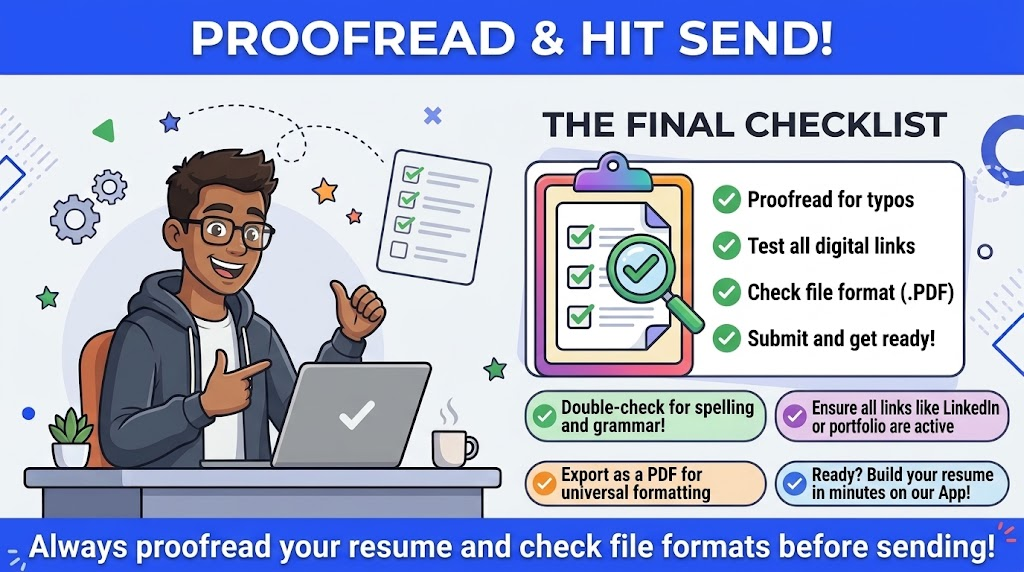
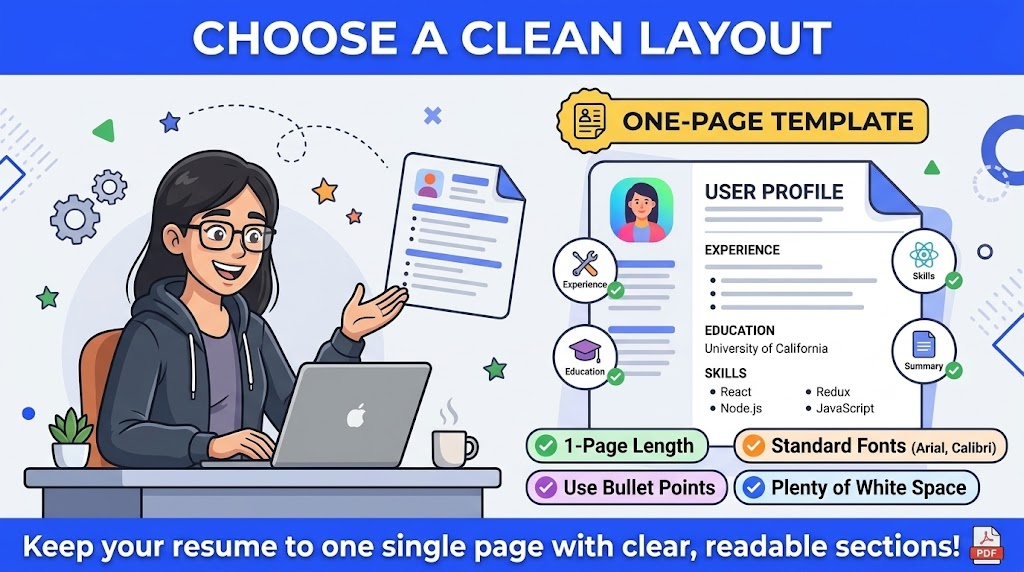
carousel

diff --git a/src/components/common/Carousel.tsx b/src/components/common/Carousel.tsx
@@ -1,11 +1,153 @@
-import { Text, View } from "react-native";
+import { colors } from "@/styles";
+import { useCallback, useEffect, useMemo, useRef, useState } from "react";
+import {
+  Animated,
+  Dimensions,
+  Image,
+  ImageSourcePropType,
+  NativeScrollEvent,
+  NativeSyntheticEvent,
+  ScrollView,
+  TouchableOpacity,
+  View,
+} from "react-native";
 
-const Carousel = () => {
+const { width } = Dimensions.get("window");
+const CARD_W = width - 32;
+const CARD_H = Math.round(CARD_W / 1.8);
+
+interface CarouselItem {
+  id: string;
+  image: ImageSourcePropType;
+}
+
+const ITEMS: CarouselItem[] = [
+  { id: "1", image: require("../../../assets/carousel/1.jpeg") },
+  { id: "2", image: require("../../../assets/carousel/2.jpeg") },
+  { id: "3", image: require("../../../assets/carousel/3.jpeg") },
+  { id: "4", image: require("../../../assets/carousel/4.jpeg") },
+  { id: "5", image: require("../../../assets/carousel/5.jpeg") },
+  { id: "6", image: require("../../../assets/carousel/6.jpeg") },
+];
+
+export default function Carousel() {
+  const [activeIndex, setActiveIndex] = useState(0);
+  const [scrollX] = useState(() => new Animated.Value(0));
+  const scrollRef = useRef<ScrollView>(null);
+  const timerRef = useRef<ReturnType<typeof setInterval> | null>(null);
+  const touching = useRef(false);
+  const activeIndexRef = useRef(0);
+
+  // Memoized so Animated.event is created once — fixes react-hooks/refs lint error
+  const onScroll = useMemo(
+    () =>
+      Animated.event([{ nativeEvent: { contentOffset: { x: scrollX } } }], {
+        useNativeDriver: true,
+      }),
+    [scrollX],
+  );
+
+  // Index tracking on JS side — fired only at scroll end, not every frame
+  const handleScrollEnd = useCallback((e: NativeSyntheticEvent<NativeScrollEvent>) => {
+    const idx = Math.round(e.nativeEvent.contentOffset.x / CARD_W);
+    if (idx !== activeIndexRef.current && idx >= 0 && idx < ITEMS.length) {
+      activeIndexRef.current = idx;
+      setActiveIndex(idx);
+    }
+  }, []);
+
+  const stopAutoPlay = useCallback(() => {
+    if (timerRef.current) {
+      clearInterval(timerRef.current);
+      timerRef.current = null;
+    }
+  }, []);
+
+  const startAutoPlay = useCallback(() => {
+    stopAutoPlay();
+    timerRef.current = setInterval(() => {
+      if (touching.current) return;
+      const next = (activeIndexRef.current + 1) % ITEMS.length;
+      (scrollRef.current as any)?.scrollTo({ x: next * CARD_W, animated: true });
+      activeIndexRef.current = next;
+      setActiveIndex(next);
+    }, 3000);
+  }, [stopAutoPlay]);
+
+  useEffect(() => {
+    startAutoPlay();
+    return stopAutoPlay;
+  }, [startAutoPlay, stopAutoPlay]);
+
   return (
-    <View>
-      <Text>Carousel</Text>
+    <View style={{ height: CARD_H }}>
+      <Animated.ScrollView
+        ref={scrollRef as any}
+        horizontal
+        pagingEnabled
+        showsHorizontalScrollIndicator={false}
+        decelerationRate="fast"
+        snapToInterval={CARD_W}
+        snapToAlignment="start"
+        bounces={false}
+        scrollEventThrottle={16}
+        onScroll={onScroll}
+        onScrollEndDrag={handleScrollEnd}
+        onMomentumScrollEnd={handleScrollEnd}
+        onTouchStart={() => {
+          touching.current = true;
+          stopAutoPlay();
+        }}
+        onTouchEnd={() => {
+          touching.current = false;
+          startAutoPlay();
+        }}
+      >
+        {ITEMS.map((item, i) => {
+          const inputRange = [(i - 1) * CARD_W, i * CARD_W, (i + 1) * CARD_W];
+          const scale = scrollX.interpolate({
+            inputRange,
+            outputRange: [0.94, 1, 0.94],
+            extrapolate: "clamp",
+          });
+          const opacity = scrollX.interpolate({
+            inputRange,
+            outputRange: [0.65, 1, 0.65],
+            extrapolate: "clamp",
+          });
+
+          return (
+            <Animated.View
+              key={item.id}
+              style={{ width: CARD_W, height: CARD_H, transform: [{ scale }], opacity }}
+            >
+              <TouchableOpacity activeOpacity={0.95} className="flex-1 overflow-hidden rounded-2xl">
+                <Image source={item.image} className="h-full w-full" resizeMode="cover" />
+
+                {/* Dots — bottom center */}
+                <View
+                  className="absolute right-0 bottom-2.5 left-0 flex-row items-center justify-center gap-1.5"
+                  pointerEvents="none"
+                >
+                  {ITEMS.map((_, di) => (
+                    <View
+                      key={di}
+                      style={{
+                        width: di === activeIndex ? 20 : 7,
+                        height: di === activeIndex ? 8 : 7,
+                        borderRadius: 4,
+                        backgroundColor:
+                          di === activeIndex ? colors.primary : "rgba(74,108,247,0.35)",
+                        marginBottom: 6,
+                      }}
+                    />
+                  ))}
+                </View>
+              </TouchableOpacity>
+            </Animated.View>
+          );
+        })}
+      </Animated.ScrollView>
     </View>
   );
-};
-
-export default Carousel;
+}
